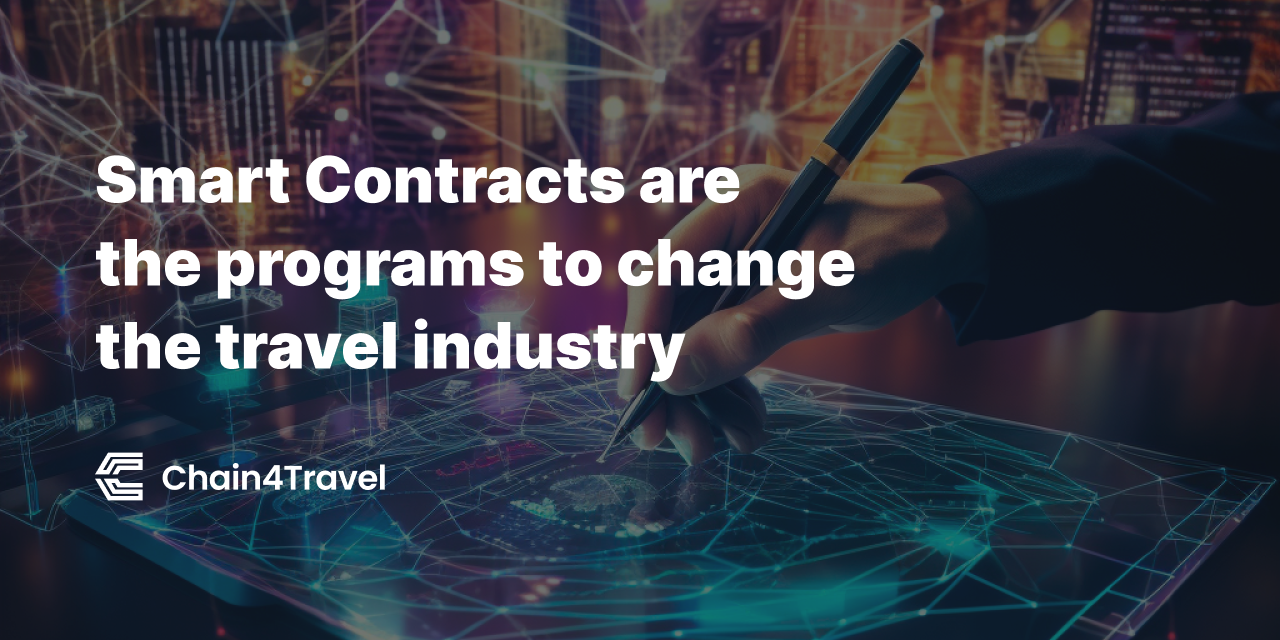
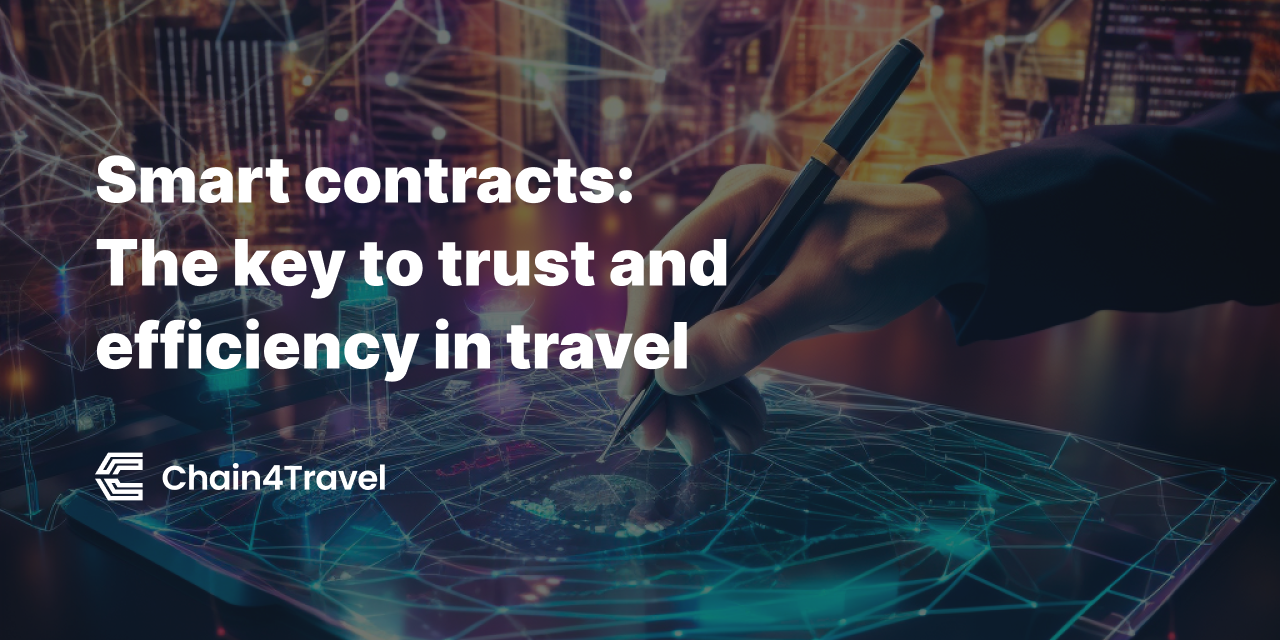
blogpost title fix

Changed region(s): [[0.0625, 0.375, 0.6875, 0.4688], [0.0625, 0.5, 0.5625, 0.5938], [0.2188, 0.2188, 0.5938, 0.3438]]

diff --git a/src/posts/smart-contracts-are-the-programs-to-change-the-travel-industry.html b/src/posts/smart-contracts-are-the-programs-to-change-the-travel-industry.html
@@ -1,6 +1,6 @@
 ---
 layout: layout_blogpost
-title: "Smart contracts are the programs to change the travel industry"
+title: "Smart contracts: The key to trust and efficiency in travel"
 description: As the travel industry enters the new digital era, the need for understanding smart contracts and their legal implications is growing. This article provides a clear overview and highlights the potential of smart contracts in travel.
 socialImage: social_smartcontract.png
 permalink: /smart-contracts-are-the-programs-to-change-the-travel-industry/
